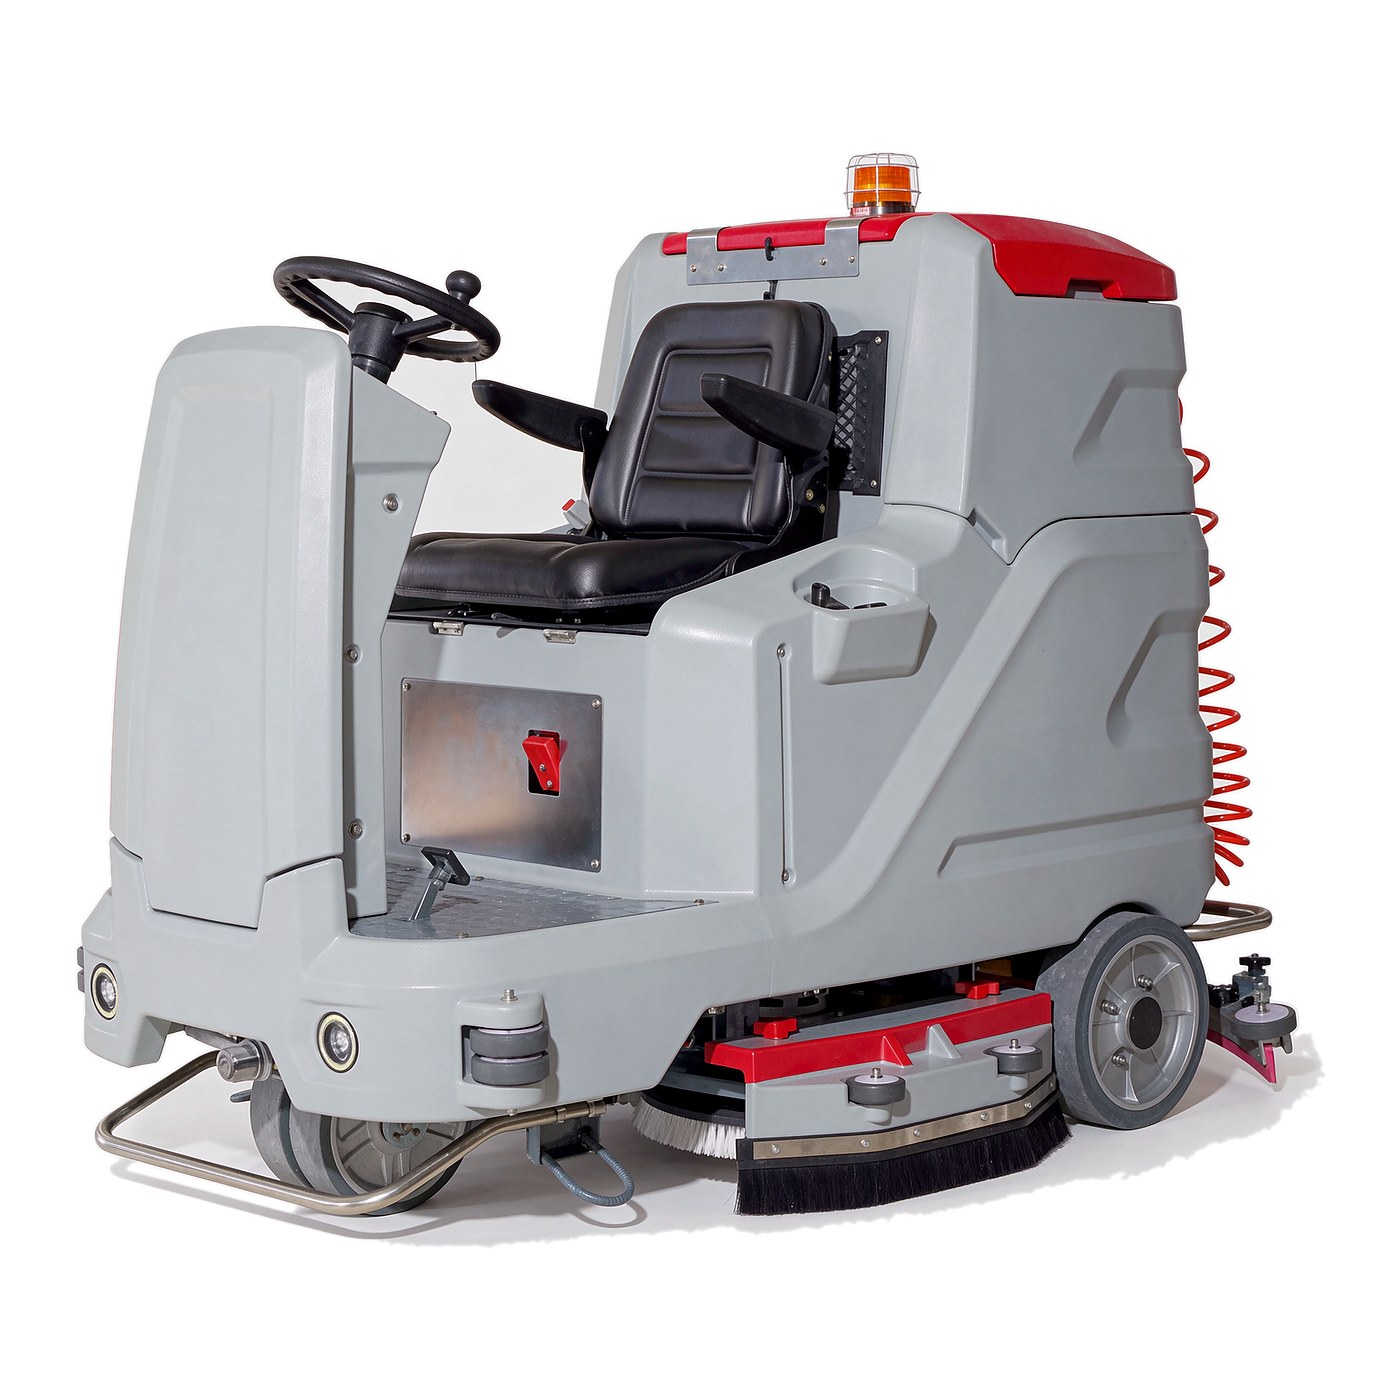
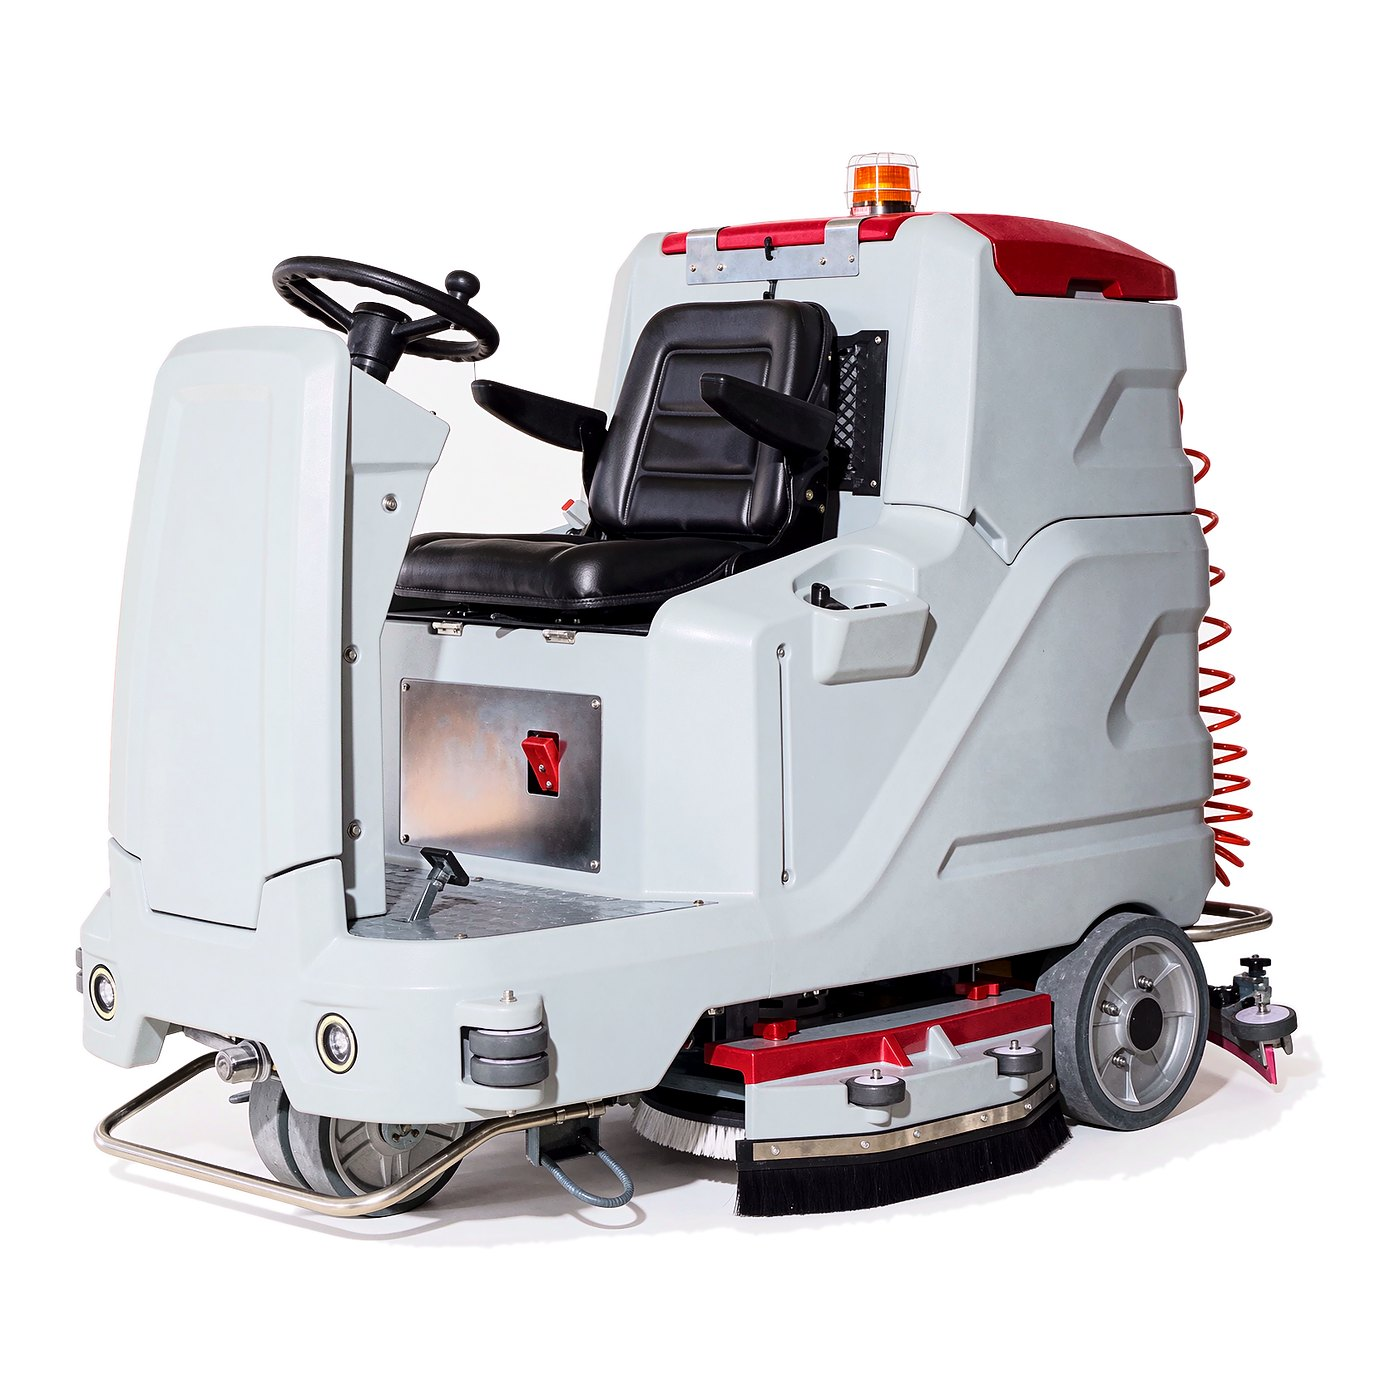
SD-103: add 3 poster images to gallery, match main image tone to SD-101/SD-102

diff --git a/sd-103.html b/sd-103.html
@@ -43,7 +43,10 @@
     "category": "Commercial ride-on scrubber dryer / industrial floor cleaning machine",
     "description": "SD-103 automatic ride-on scrubber dryer with a 1060mm working width, 1200mm squeegee and 55kg brush pressure reaching 10000 m2/h, twin 19 inch 1000W disc brushes, 1400W rear drive motor, 600W suction motor, 240L clean and 260L recovery tanks and a DC 36V 200Ah battery, for large workshops, airports and parking lots.",
     "image": [
-      "https://feliclean.com/assets/img/products/sd-103/sd-103-1060mm-ride-on-scrubber-dryer-white-background.jpg"
+      "https://feliclean.com/assets/img/products/sd-103/sd-103-1060mm-ride-on-scrubber-dryer-white-background.jpg",
+      "https://feliclean.com/assets/img/products/sd-103/sd-103-ride-on-scrubber-dryer-hero-poster.jpg",
+      "https://feliclean.com/assets/img/products/sd-103/sd-103-ride-on-scrubber-dryer-spec-poster.jpg",
+      "https://feliclean.com/assets/img/products/sd-103/sd-103-applications-workshop-airport-parking-poster.jpg"
     ],
     "brand": {
       "@type": "Brand",
@@ -131,6 +134,12 @@
         <div class="pdp">
           <div class="pdp-left">
             <div class="pdp-gallery">
+              <div class="pdp-thumbs">
+                <button class="pdp-thumb active" data-full="assets/img/products/sd-103/sd-103-1060mm-ride-on-scrubber-dryer-white-background.jpg" type="button"><img src="assets/img/products/sd-103/sd-103-1060mm-ride-on-scrubber-dryer-white-background.jpg" alt="SD-103 1060mm automatic ride-on scrubber dryer in grey and red, seen from the front left: black seat and steering wheel, red top cover with amber beacon, red coil hose along the right flank, grey squeegee and twin brush deck at the base, on a clean white background" width="1400" height="1400" loading="eager"></button>
+                <button class="pdp-thumb" data-full="assets/img/products/sd-103/sd-103-ride-on-scrubber-dryer-hero-poster.jpg" type="button"><img src="assets/img/products/sd-103/sd-103-ride-on-scrubber-dryer-hero-poster.jpg" alt="SD-103 ride-on scrubber dryer poster: the white headline RIDE-ON SCRUBBER DRYER beside headline figures 10000 m2/h working efficiency, 1060 mm working width and 55 kg brush pressure, with the grey and red machine standing on a sunlit industrial workshop floor" width="1200" height="1501" loading="lazy"></button>
+                <button class="pdp-thumb" data-full="assets/img/products/sd-103/sd-103-ride-on-scrubber-dryer-spec-poster.jpg" type="button"><img src="assets/img/products/sd-103/sd-103-ride-on-scrubber-dryer-spec-poster.jpg" alt="SD-103 specification poster listing product size 1650 x 1200 x 1320 mm, 200 Ah battery at DC 36 V and 55 kg brush pressure, plus 1060 mm working width, 10000 m2/h efficiency, 1200 mm squeegee and 240 L clean tank, with 260 L recovery tank and twin 19 in brushes noted along the base" width="1200" height="1501" loading="lazy"></button>
+                <button class="pdp-thumb" data-full="assets/img/products/sd-103/sd-103-applications-workshop-airport-parking-poster.jpg" type="button"><img src="assets/img/products/sd-103/sd-103-applications-workshop-airport-parking-poster.jpg" alt="SD-103 ride-on scrubber dryer shown working in three large venues, a machine workshop, an airport terminal and a multi-storey car park, captioned One machine for large-scale floors, with 240 L clean and 260 L recovery tanks, a DC 36 V 200 Ah battery, twin 19 in brushes at 55 kg and a 1200 mm squeegee" width="1000" height="1251" loading="lazy"></button>
+              </div>
               <div class="pdp-main pdp-main--cap" id="pdpMain">
                 <img src="assets/img/products/sd-103/sd-103-1060mm-ride-on-scrubber-dryer-white-background.jpg" alt="SD-103 1060mm automatic ride-on scrubber dryer in grey and red, seen from the front left: black seat and steering wheel, red top cover with amber beacon, red coil hose along the right flank, grey squeegee and twin brush deck at the base, on a clean white background" width="1400" height="1400" loading="eager">
               </div>
